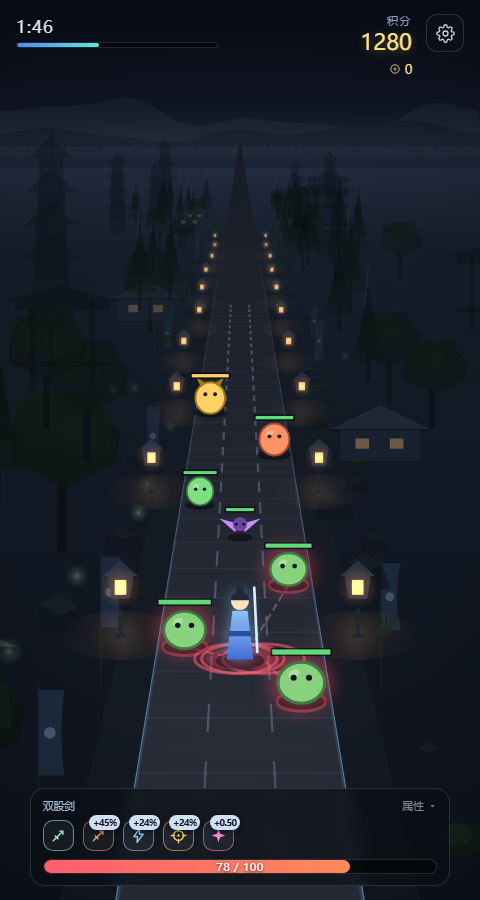
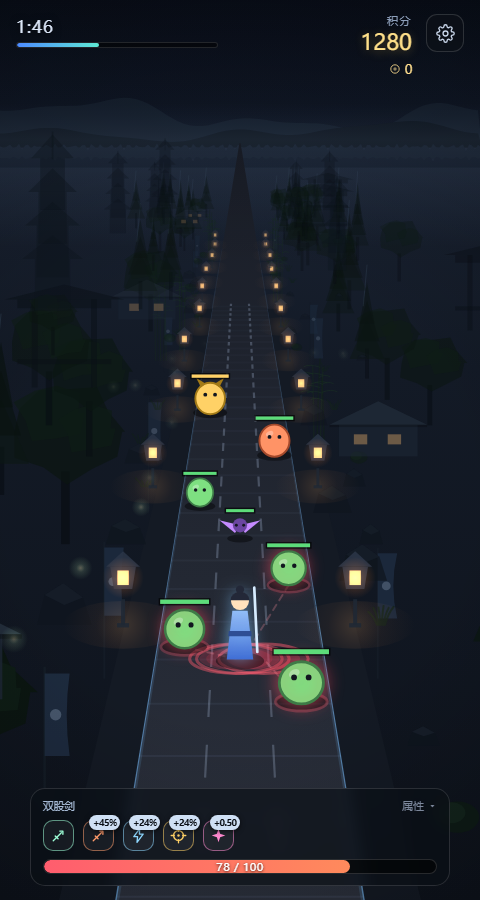
fix(沙漠图): 里面不该长树 —— 顺手挖出一个主题缺键的静默 bug
玩家指出"沙漠里怎么会有树"。查下来是三件事：

1. 真 bug：沙漠图有 12 个色值根本没定义，全部静默回落到夜图主题。
   desert.over.P 里只写了原来 8 种道具的键，新加的沙漠道具（仙人掌/沙丘/
   台地/断柱/帐篷/棕榈叶）的色值当时写进了 BASE_THEME —— 那是**夜图**的
   底盘。于是沙漠里的棕榈叶读的是夜图的深绿 #3f5a35、仙人掌读 #3f7048，
   在黄沙上绿得刺眼；沙丘那几个碰巧也是沙色才没露馅，纯属运气。
   修法：沙漠专属色值一律移进 desert.over.P，BASE_THEME 只留夜里用得到的，
   并补一条断言"某张图用到的每个色值键都必须写在这张图自己的 over.P 里"。

2. 棕榈占了中景带与远景带（1/6 与 1/5，还铺到 520 米深），沙漠成了棕榈林。
   现在沙漠图不收任何真树（松/阔叶/竹/棕榈），第一带也不放草。
   palm 的道具与配色保留 —— 想加一段绿洲把它塞回第三带就行。

3. 第一带 7 个槽位里 grass 占了两个，沙漠里长绿草。
   换成 cactusClump（团扇仙人掌）、yucca（丝兰）、deadbush（枯木丛）。

主体改成仙人掌：中景 2/6 是柱状仙人掌，高度从 1.15~2.1 米提到 2.4~4.4 米
（真实 saguaro 就能长这么高），顶上按位置派生开一朵花 —— 不用 r() 是因为
PROPS 的随机数是共享序列，多调一次会让后面所有物件整体错位、固定种子
的对照全废。极远处（整株不足 4px）只画一根实心短柱：那时臂会退化成
更细的线，整条远景带看着像一片飘着的噪点。

验证
  · 颜色账本逐条比对颜色赋值序列：夜图 66857 条、白天图 51393 条，
    **差异均为 0**；沙漠图差异 71189 处（就是这次要改的），
    其中第一处正是 #3f7048 → #6b8a4c，把上面那个 bug 钉死了。
  · e2e 305 → 314 条：新增"沙漠不种树也不长草""仙人掌是主体"
    "别的地图照旧有树""色值必须在本图 over.P 里显式写过"，
    并把 halfWidth 表补到 10 种沙漠物件（漏登等于放行它去压路面）。
  · 判据做过修复前对照：把 desert.over.P 里的 cactus 三个键注释掉，
    新断言确实报出 [desert] 缺 cactus.cactus/cactusDark/cactusFlower。
  · balance 27/27、stand180 0/12、diag 三档与改动前逐局一致（0/6、6/6、5/6）。
  · 顺手修：扫色值的正则必须写 \bth\. —— 不加词边界时 Math.floor 的尾巴
    也是 th，会扫出"缺 floor/max/PI"这种根本不存在的色值来。

diff --git a/game.js b/game.js
@@ -294,13 +294,12 @@
       stalkA: '#122219', stalkB: '#16291e', leafC: '#193023',
       pole: '#151d27', cloth: '#1e2c40', emblem: 'rgba(206,228,255,0.26)',
       wall: '#1d2735', roof: '#26313f', window: 'rgba(255,188,112,0.62)',
-      eave: 'rgba(0,0,0,0.35)', stone: '#0a1017', tower: '#0d141d',
-      cactus: '#3f7048', cactusDark: '#2f5a38',
-      dune: '#c99a63', duneTop: '#e0b478',
-      mesa: '#a87c4e', mesaTop: '#c99a63',
-      ruin: '#b09a78', ruinTop: '#8f7c5e',
-      tent: '#c2a97e', tentDark: '#8a7454',
-      palmLeaf: '#3f5a35', palmLeaf2: '#4d6b3f'
+      eave: 'rgba(0,0,0,0.35)', stone: '#0a1017', tower: '#0d141d'
+      /* ⚠ 这里**只放夜里会用到的键**。沙漠专属的（仙人掌/沙丘/台地/断柱/帐篷/棕榈）
+       *   一律写在 desert 的 over.P 里 —— 曾经把它们写在这儿，
+       *   于是沙漠图的仙人掌与棕榈叶读的是**夜图**的深绿，在黄沙上绿得刺眼。
+       *   deepMerge 不会报错，只会安静地给你一个不该出现的颜色。
+       *   dev/e2e-test.js 测试 L 现在会逐道具核对"用到的每个键都在本图 over.P 里"。 */
     },
     /* 石灯笼：白天地图里"不点灯"，于是只改这几个色，几何一律不动 */
     lamp: {
@@ -399,9 +398,14 @@
     {
       key: 'desert', name: '大漠孤烟', sub: '黄昏 · 沙丘', price: 8800,
       desc: '落日把沙丘压成剪影。仙人掌、断柱、商队的帐篷。',
-      kinds: [['grass', 'rock', 'cactus', 'rock', 'banner', 'dune', 'grass'],
-              ['cactus', 'dune', 'palm', 'ruin', 'tent', 'rock'],
-              ['palm', 'ruin', 'obelisk', 'mesa', 'cactus']],
+      /* 沙漠图**不收真树**（松/阔叶/竹一概没有），第一带也不放草 ——
+       * 上一次这里铺的是 grass 与 palm，画出来是一片棕榈林，草还是绿的。
+       * 主体改成仙人掌：近处矮丛（cactusClump）、中景柱状（cactus），
+       * 远景靠台地/断柱/方尖碑撑天际线。
+       * palm（绿洲棕榈）的道具和配色都留着，想加一段绿洲就把它塞进第三带。 */
+      kinds: [['dune', 'rock', 'cactusClump', 'yucca', 'banner', 'cactusClump', 'deadbush'],
+              ['cactus', 'dune', 'ruin', 'cactus', 'tent', 'rock'],
+              ['mesa', 'cactus', 'ruin', 'obelisk', 'mesa']],
       over: {
         sky: ['#33406f', '#8a5a80', '#d4795a', '#f0b070'],
         ground: ['#c08a52', '#a8703f', '#6b4526'],
@@ -421,14 +425,21 @@
         vig: 0.40,
         flies: 9,
         P: {
-          grass: '#8a7340', bush: '#6b6a34', bushTop: '#7a7a3d',
+          /* 这里只列**沙漠图真正画得到的**道具色值。
+           * 沙丘/台地/断柱/帐篷本来就该是沙石色，跟地平线同调；
+           * 植物则刻意压暗、去饱和 —— 落日是逆光，饱和的绿会像贴上去的贴纸。 */
           rock: '#8a7355', rockTop: '#9c8465',
-          trunk: '#4a3524', pineA: '#5a4a30', pineB: '#4a3c26',
-          leafA: '#3f5a35', leafB: '#4d6b3f', edge: 'rgba(255,224,170,0.30)',
-          stalkA: '#3d6b45', stalkB: '#4a7a50', leafC: '#5a8a5c',
+          dune: '#c99a63', duneTop: '#e0b478',
+          mesa: '#a87c4e', mesaTop: '#c99a63',
+          ruin: '#b09a78', ruinTop: '#8f7c5e',
+          tent: '#c2a97e', tentDark: '#8a7454',
           pole: '#5a4330', cloth: '#a8483a', emblem: 'rgba(255,235,190,0.5)',
-          wall: '#b09a78', roof: '#8a7050', window: 'rgba(255,200,120,0.60)',
-          eave: 'rgba(0,0,0,0.30)', stone: '#8f7c5e', tower: '#a08a68'
+          trunk: '#4a3524',
+          cactus: '#5f8046', cactusDark: '#42583a', cactusFlower: '#ffb89e',
+          cactusClump: '#57733f', cactusClumpTop: '#6b8a4c',
+          yucca: '#7d8f4e', yuccaDark: '#637440',
+          deadbush: '#7a6242', deadbushTop: '#9a7d52',
+          palmLeaf: '#7d8a4a', palmLeaf2: '#8f9b58'
         },
         lamp: {
           pole: '#6b5238', body: '#7d6244', core: '#ffd07a',
@@ -2108,7 +2119,15 @@
     /* 柱状仙人掌：主干 + 两条上举的臂 */
     cactus: function (bx, by, u, r) {
       var th = theme().P;
-      var h = (1.15 + r() * 0.95) * u, w = u * 0.30;
+      var h = (2.4 + r() * 2.0) * u, w = u * 0.42;
+      /* 极远处（整株只剩几个像素高）：只留一根实心短柱就收工。
+       * 那时候主干本身才一两像素宽，两条臂会退化成更细的线，
+       * 整条远景带看着像一片飘着的噪点 —— 少画两笔反而更像"远处的仙人掌"。 */
+      if (h < 4) {
+        ctx.fillStyle = th.cactus;
+        ctx.fillRect(bx - 0.75, by - h, 1.5, Math.max(1, h));
+        return;
+      }
       ctx.fillStyle = th.cactus;
       ctx.fillRect(bx - w * 0.5, by - h, w, h);
       var armH = h * 0.42, armW = w * 0.62;
@@ -2119,6 +2138,66 @@
       ctx.fillRect(bx + w * 0.5 + u * 0.26 - u * 0.09, ay2 - armH * 0.86, u * 0.26, u * 0.09);
       ctx.fillStyle = th.cactusDark;            // 背光的一侧
       ctx.fillRect(bx - w * 0.5, by - h, w * 0.34, h);
+      /* 顶上一朵花：落日下最跳的一点色，也是"这是仙人掌、不是一根柱子"的提示。
+       * 用位置派生而不是 r() —— PROPS 的 r 是共享的随机序列，多调一次会让
+       * 后面所有物件的随机值整体错位，固定种子的截图对照就全废了。 */
+      if (Math.abs(bx * 0.013) % 1 < 0.55) {
+        ctx.fillStyle = th.cactusFlower;
+        ctx.beginPath();
+        ctx.arc(bx, by - h - u * 0.07, u * 0.12, 0, 6.283);
+        ctx.fill();
+      }
+    },
+
+    /* 团扇仙人掌：贴路带的矮丛，几片扁掌叠着长。
+     * 它顶替的是原来第一带里的 grass —— 沙漠里那丛"绿草"是最出戏的一处。 */
+    cactusClump: function (bx, by, u, r) {
+      var th = theme().P;
+      var n = 3 + Math.floor(r() * 3);
+      /* 宽度受"最坏横向半宽 0.86 米"约束（第一带 minX=2.72，路面半宽 2.0，
+       * 探入上限 0.30）—— 长得再大就得挪出贴路带，不能再往路边挤。 */
+      var w0 = (0.52 + r() * 0.22) * u;
+      for (var i = 0; i < n; i++) {
+        var dx = (i - (n - 1) / 2) * w0 * 0.36 + (r() - 0.5) * w0 * 0.16;
+        var hh = w0 * (0.72 + r() * 0.5), ww = w0 * (0.52 + r() * 0.20);
+        ctx.fillStyle = i % 2 ? th.cactusClump : th.cactusClumpTop;
+        ctx.beginPath();
+        ctx.ellipse(bx + dx, by - hh * 0.52, ww * 0.5, hh * 0.5, 0, 0, 6.283);
+        ctx.fill();
+      }
+    },
+
+    /* 丝兰：一丛剑状硬叶。沙漠里的"草"就该长这样 —— 细、尖、发灰，
+     * 而不是阔叶草那一撮软绿。 */
+    yucca: function (bx, by, u, r) {
+      var th = theme().P;
+      var n = 7 + Math.floor(r() * 4), H = (0.62 + r() * 0.52) * u;
+      ctx.lineWidth = Math.max(1, u * 0.055);
+      ctx.lineCap = 'round';
+      for (var i = 0; i < n; i++) {
+        var t = (i / (n - 1) - 0.5) * 2, hh = H * (0.62 + r() * 0.5);
+        ctx.strokeStyle = i % 2 ? th.yucca : th.yuccaDark;
+        ctx.beginPath();
+        ctx.moveTo(bx, by);
+        ctx.quadraticCurveTo(bx + t * u * 0.12, by - hh * 0.70, bx + t * u * 0.42, by - hh);
+        ctx.stroke();
+      }
+    },
+
+    /* 枯木丛：干裂的放射枝条，替掉沙漠里同样不该有的那丛浑圆绿灌木 */
+    deadbush: function (bx, by, u, r) {
+      var th = theme().P;
+      var n = 6 + Math.floor(r() * 5), H = (0.45 + r() * 0.38) * u;
+      ctx.lineWidth = Math.max(1, u * 0.042);
+      ctx.lineCap = 'round';
+      for (var i = 0; i < n; i++) {
+        var t = (i / (n - 1) - 0.5) * 2, hh = H * (0.50 + r() * 0.60);
+        ctx.strokeStyle = i % 2 ? th.deadbush : th.deadbushTop;
+        ctx.beginPath();
+        ctx.moveTo(bx, by);
+        ctx.quadraticCurveTo(bx + t * u * 0.14, by - hh * 0.75, bx + t * u * 0.38, by - hh);
+        ctx.stroke();
+      }
     },
 
     /* 小沙丘（贴路带用）：只留一道弧 */

diff --git a/dev/e2e-test.js b/dev/e2e-test.js
@@ -519,8 +519,11 @@ async function testE() {
     hut: 2.15,        // 屋宽 4.3
     gate: 4.08,       // 檐口 ±w×0.92
     pagoda: 2.30,
-    /* ── 以下 7 种是沙漠图专属 ── */
-    cactus: 0.58,     // 右臂：w*0.5(0.15) + u*0.26 + 臂宽 u*0.26
+    /* ── 以下 10 种是沙漠图专属 ── */
+    cactus: 0.64,     // 右臂外沿 w*0.5(0.21) + u*0.26 − u*0.09 + 臂宽 u*0.26
+    cactusClump: 0.86, // 最宽一丛：5 片摊开 0.72w0 + 半片 0.27w0（w0 最大 0.74）
+    yucca: 0.45,      // 剑叶尖 ±u*0.42 再 + 线宽一半
+    deadbush: 0.40,   // 枯枝尖 ±u*0.38 再 + 线宽一半
     dune: 0.70,       // 丘宽最大 1.4 → 半径 0.7（迎风坡那瓣 w*0.38 更窄）
     mesa: 2.30,       // 台面宽最大 4.6 → ±2.3
     ruin: 0.83,       // 柱宽 0.96，脚边碎块外沿 w*0.86
@@ -571,8 +574,62 @@ async function testE() {
     '沙漠图里出现了沙漠专属物件（cactus/dune/mesa）');
   ok(!nightKinds.has('cactus') && !nightKinds.has('mesa') && !nightKinds.has('obelisk'),
     '夜景里不会冒出仙人掌/台地/方尖碑（换地图真的换了种类，不是只换了颜色）');
-  ok(desertKinds.has('palm') !== nightKinds.has('palm'),
-    'palms 只属于沙漠 —— 种类是按地图选的，不是三张图共用一套');
+  /* ④d 沙漠里不许长树 —— 这条是用户直接点出来的："沙漠里怎么会有树"。
+   *     上一版沙漠的第二/三带铺的是 palm、第一带还塞了两个 grass，
+   *     画出来是一片棕榈林；更糟的是棕榈叶读到了**夜图**的深绿（见 ④e）。
+   *     查 beltsFor 的**数据**而不是采样出来的 kindSet：采样只有 4 个里程，
+   *     碰巧没抽到某个种类就等于放过它。 */
+  const TREE_KINDS = ['pine', 'broadleaf', 'bamboo', 'palm', 'grass', 'bush'];
+  const desertFlat = D.beltsFor('desert').reduce((a, b) => a.concat(b.kinds), []);
+  const treesInDesert = TREE_KINDS.filter((k) => desertFlat.indexOf(k) >= 0);
+  ok(treesInDesert.length === 0, '沙漠里不种树也不长草（查到的：' +
+    (treesInDesert.join('/') || '无') + '）');
+  const nCactus = desertFlat.filter((k) => k === 'cactus' || k === 'cactusClump').length;
+  ok(nCactus >= 3, '仙人掌是沙漠的主体：' + desertFlat.length + ' 个槽位里占 ' + nCactus + ' 个');
+  ok(nightKinds.has('pine') || nightKinds.has('broadleaf'),
+    '别的地图照旧有树 —— 修的是沙漠，不是把树从整个世界删掉');
+
+  /* ④e 主题完整性：某张地图用到的**每一种道具**，它读的每个 th.xxx 都必须在
+   *     **这张图自己的 over.P** 里显式写过。
+   *     为什么非要"显式"：主题是 deepMerge 出来的，缺的键会安静地回落到 BASE_THEME。
+   *     这次的 bug 正是如此 —— 新加的沙漠道具只把色值写在了 BASE_THEME，
+   *     于是沙漠图的仙人掌与棕榈叶读到的其实是**夜图**的深绿，在黄沙上绿得刺眼，
+   *     而代码一个错都不报；沙丘/台地那几个碰巧也是沙色才没露馅，纯属运气。
+   *     依赖关系直接从 PROPS 源码里扫，省得再手抄一张会和代码走散的对照表。 */
+  const propColors = {};
+  (() => {
+    const src = fs.readFileSync(path.join(DIR, 'game.js'), 'utf8');
+    const s0 = src.indexOf('var PROPS = {');
+    const body = src.slice(s0, src.indexOf('\n  };', s0));
+    const parts = body.split(/\n    (\w+): function \(bx, by, u, r\) \{/);
+    for (let i = 1; i < parts.length; i += 2) {
+      const ks = {};
+      /* ⚠ 必须带 \b：不加的话 Math.floor / Math.max / Math.PI 里的
+       *   "…th." 会被当成主题键扫出来（Math 的尾巴正好是 th），
+       *   于是三张图一起报"缺 floor/max/PI"这种根本不存在的色值。 */
+      (parts[i + 1].match(/\bth\.([A-Za-z0-9_]+)/g) || []).forEach((m) => { ks[m.slice(3)] = 1; });
+      propColors[parts[i]] = Object.keys(ks);
+    }
+  })();
+  ok(Object.keys(propColors).length >= 15, '从 PROPS 源码里扫出 ' +
+    Object.keys(propColors).length + ' 种道具的配色依赖');
+  MAPKEYS.forEach((mk) => {
+    const md = D.MAPS.filter((x) => x.key === mk)[0];
+    const exp = (md && md.over && md.over.P) || D.theme(mk).P;   // 基准图没有 over，它自己就是源
+    const merged = D.theme(mk).P;
+    const notExp = {}, undef = {};
+    D.beltsFor(mk).reduce((a, b) => a.concat(b.kinds), []).forEach((k) => {
+      (propColors[k] || []).forEach((key) => {
+        if (exp[key] === undefined) notExp[k + '.' + key] = 1;
+        if (merged[key] === undefined) undef[k + '.' + key] = 1;
+      });
+    });
+    const a = Object.keys(notExp), b = Object.keys(undef);
+    ok(a.length === 0, '[' + mk + '] 用到的色值都在本图 over.P 里显式写过' +
+      (a.length ? '（缺 ' + a.join('、') + ' —— 会静默回落到基准主题，画出来是别张图的颜色）' : ''));
+    ok(b.length === 0, '[' + mk + '] 合并后的主题里没有 undefined 色值' +
+      (b.length ? '（' + b.join('、') + '）' : ''));
+  });
 
   /* ⑤ 数量有界：scroll 拉到极远，可见物件数必须仍落在同一区间里。
    *    注意不能断言"恒定" —— 每条带是按等间距槽位取的，进出视野的槽位是否被
